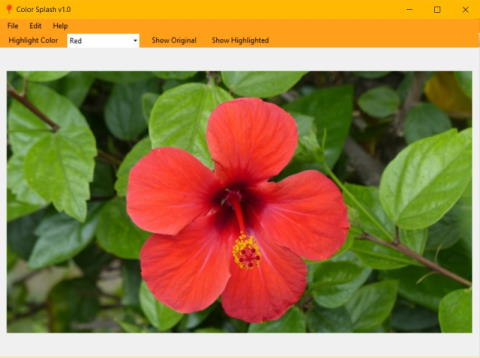
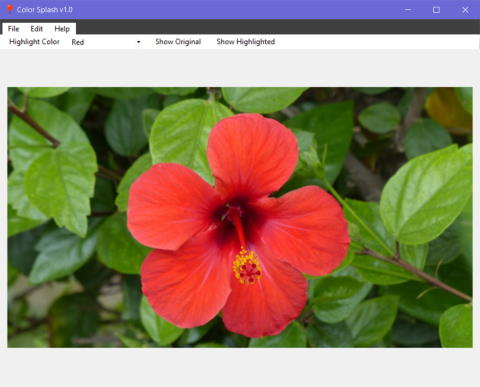
Design changes

diff --git a/color_splash/src/Forms/MainForm.Designer.cs b/color_splash/src/Forms/MainForm.Designer.cs
@@ -61,25 +61,30 @@ namespace ColorSplash.Forms {
             // 
             // menuStrip1
             // 
-            this.menuStrip1.BackColor = System.Drawing.Color.FromArgb(((int)(((byte)(255)))), ((int)(((byte)(159)))), ((int)(((byte)(26)))));
+            this.menuStrip1.BackColor = System.Drawing.Color.FromArgb(((int)(((byte)(64)))), ((int)(((byte)(64)))), ((int)(((byte)(64)))));
             this.menuStrip1.Font = new System.Drawing.Font("Segoe UI", 9F, System.Drawing.FontStyle.Regular, System.Drawing.GraphicsUnit.Point, ((byte)(162)));
+            this.menuStrip1.GripMargin = new System.Windows.Forms.Padding(2);
             this.menuStrip1.ImageScalingSize = new System.Drawing.Size(20, 20);
             this.menuStrip1.Items.AddRange(new System.Windows.Forms.ToolStripItem[] {
             this.fileToolStripMenuItem,
             this.editToolStripMenuItem,
             this.helpToolStripMenuItem});
             this.menuStrip1.Location = new System.Drawing.Point(0, 0);
+            this.menuStrip1.Margin = new System.Windows.Forms.Padding(0, 5, 0, 5);
             this.menuStrip1.Name = "menuStrip1";
-            this.menuStrip1.Padding = new System.Windows.Forms.Padding(5, 2, 0, 2);
-            this.menuStrip1.Size = new System.Drawing.Size(1045, 28);
+            this.menuStrip1.Padding = new System.Windows.Forms.Padding(5, 3, 0, 0);
+            this.menuStrip1.Size = new System.Drawing.Size(1045, 29);
             this.menuStrip1.TabIndex = 0;
             this.menuStrip1.Text = "menuStrip1";
             // 
             // fileToolStripMenuItem
             // 
+            this.fileToolStripMenuItem.BackColor = System.Drawing.Color.White;
             this.fileToolStripMenuItem.DropDownItems.AddRange(new System.Windows.Forms.ToolStripItem[] {
             this.openToolStripMenuItem,
             this.saveToolStripMenuItem});
+            this.fileToolStripMenuItem.Font = new System.Drawing.Font("Segoe UI", 9F, System.Drawing.FontStyle.Regular, System.Drawing.GraphicsUnit.Point, ((byte)(162)));
+            this.fileToolStripMenuItem.Margin = new System.Windows.Forms.Padding(0, 2, 0, 0);
             this.fileToolStripMenuItem.Name = "fileToolStripMenuItem";
             this.fileToolStripMenuItem.Size = new System.Drawing.Size(46, 24);
             this.fileToolStripMenuItem.Text = "File";
@@ -87,23 +92,25 @@ namespace ColorSplash.Forms {
             // openToolStripMenuItem
             // 
             this.openToolStripMenuItem.Name = "openToolStripMenuItem";
-            this.openToolStripMenuItem.Size = new System.Drawing.Size(128, 26);
+            this.openToolStripMenuItem.Size = new System.Drawing.Size(224, 26);
             this.openToolStripMenuItem.Text = "Open";
             this.openToolStripMenuItem.Click += new System.EventHandler(this.OpenToolStripMenuItem_Click);
             // 
             // saveToolStripMenuItem
             // 
             this.saveToolStripMenuItem.Name = "saveToolStripMenuItem";
-            this.saveToolStripMenuItem.Size = new System.Drawing.Size(128, 26);
+            this.saveToolStripMenuItem.Size = new System.Drawing.Size(224, 26);
             this.saveToolStripMenuItem.Text = "Save";
             this.saveToolStripMenuItem.Click += new System.EventHandler(this.SaveToolStripMenuItem_Click);
             // 
             // editToolStripMenuItem
             // 
+            this.editToolStripMenuItem.BackColor = System.Drawing.Color.White;
             this.editToolStripMenuItem.DropDownItems.AddRange(new System.Windows.Forms.ToolStripItem[] {
             this.highSensitivityToolStripMenuItem,
             this.normalSensitivityToolStripMenuItem,
             this.lowSensitivityToolStripMenuItem});
+            this.editToolStripMenuItem.Margin = new System.Windows.Forms.Padding(0, 2, 0, 0);
             this.editToolStripMenuItem.Name = "editToolStripMenuItem";
             this.editToolStripMenuItem.Size = new System.Drawing.Size(49, 24);
             this.editToolStripMenuItem.Text = "Edit";
@@ -111,7 +118,7 @@ namespace ColorSplash.Forms {
             // highSensitivityToolStripMenuItem
             // 
             this.highSensitivityToolStripMenuItem.Name = "highSensitivityToolStripMenuItem";
-            this.highSensitivityToolStripMenuItem.Size = new System.Drawing.Size(212, 26);
+            this.highSensitivityToolStripMenuItem.Size = new System.Drawing.Size(224, 26);
             this.highSensitivityToolStripMenuItem.Text = "High Sensitivity";
             this.highSensitivityToolStripMenuItem.Click += new System.EventHandler(this.HighSensitivityToolStripMenuItem_Click);
             // 
@@ -121,22 +128,24 @@ namespace ColorSplash.Forms {
             this.normalSensitivityToolStripMenuItem.CheckOnClick = true;
             this.normalSensitivityToolStripMenuItem.CheckState = System.Windows.Forms.CheckState.Checked;
             this.normalSensitivityToolStripMenuItem.Name = "normalSensitivityToolStripMenuItem";
-            this.normalSensitivityToolStripMenuItem.Size = new System.Drawing.Size(212, 26);
+            this.normalSensitivityToolStripMenuItem.Size = new System.Drawing.Size(224, 26);
             this.normalSensitivityToolStripMenuItem.Text = "Normal Sensitivity";
             this.normalSensitivityToolStripMenuItem.Click += new System.EventHandler(this.NormalSensitivityToolStripMenuItem_Click);
             // 
             // lowSensitivityToolStripMenuItem
             // 
             this.lowSensitivityToolStripMenuItem.Name = "lowSensitivityToolStripMenuItem";
-            this.lowSensitivityToolStripMenuItem.Size = new System.Drawing.Size(212, 26);
+            this.lowSensitivityToolStripMenuItem.Size = new System.Drawing.Size(224, 26);
             this.lowSensitivityToolStripMenuItem.Text = "Low Sensitivity";
             this.lowSensitivityToolStripMenuItem.Click += new System.EventHandler(this.LowSensitivityToolStripMenuItem_Click);
             // 
             // helpToolStripMenuItem
             // 
+            this.helpToolStripMenuItem.BackColor = System.Drawing.Color.White;
             this.helpToolStripMenuItem.DropDownItems.AddRange(new System.Windows.Forms.ToolStripItem[] {
             this.showHelpToolStripMenuItem,
             this.aboutToolStripMenuItem});
+            this.helpToolStripMenuItem.Margin = new System.Windows.Forms.Padding(0, 2, 0, 0);
             this.helpToolStripMenuItem.Name = "helpToolStripMenuItem";
             this.helpToolStripMenuItem.Size = new System.Drawing.Size(55, 24);
             this.helpToolStripMenuItem.Text = "Help";
@@ -144,18 +153,18 @@ namespace ColorSplash.Forms {
             // showHelpToolStripMenuItem
             // 
             this.showHelpToolStripMenuItem.Name = "showHelpToolStripMenuItem";
-            this.showHelpToolStripMenuItem.Size = new System.Drawing.Size(164, 26);
+            this.showHelpToolStripMenuItem.Size = new System.Drawing.Size(224, 26);
             this.showHelpToolStripMenuItem.Text = "Show Help";
             // 
             // aboutToolStripMenuItem
             // 
             this.aboutToolStripMenuItem.Name = "aboutToolStripMenuItem";
-            this.aboutToolStripMenuItem.Size = new System.Drawing.Size(164, 26);
+            this.aboutToolStripMenuItem.Size = new System.Drawing.Size(224, 26);
             this.aboutToolStripMenuItem.Text = "About";
             // 
             // toolStrip1
             // 
-            this.toolStrip1.BackColor = System.Drawing.Color.FromArgb(((int)(((byte)(255)))), ((int)(((byte)(159)))), ((int)(((byte)(26)))));
+            this.toolStrip1.BackColor = System.Drawing.Color.White;
             this.toolStrip1.GripStyle = System.Windows.Forms.ToolStripGripStyle.Hidden;
             this.toolStrip1.ImageScalingSize = new System.Drawing.Size(20, 20);
             this.toolStrip1.Items.AddRange(new System.Windows.Forms.ToolStripItem[] {
@@ -163,7 +172,7 @@ namespace ColorSplash.Forms {
             this.colorChooser,
             this.showOriginal,
             this.toolStripButton3});
-            this.toolStrip1.Location = new System.Drawing.Point(0, 28);
+            this.toolStrip1.Location = new System.Drawing.Point(0, 29);
             this.toolStrip1.Name = "toolStrip1";
             this.toolStrip1.Padding = new System.Windows.Forms.Padding(0);
             this.toolStrip1.RenderMode = System.Windows.Forms.ToolStripRenderMode.Professional;
@@ -173,7 +182,7 @@ namespace ColorSplash.Forms {
             // 
             // toolStripButton1
             // 
-            this.toolStripButton1.BackColor = System.Drawing.Color.FromArgb(((int)(((byte)(255)))), ((int)(((byte)(159)))), ((int)(((byte)(26)))));
+            this.toolStripButton1.BackColor = System.Drawing.Color.White;
             this.toolStripButton1.CheckOnClick = true;
             this.toolStripButton1.DisplayStyle = System.Windows.Forms.ToolStripItemDisplayStyle.Text;
             this.toolStripButton1.ImageTransparentColor = System.Drawing.Color.Magenta;
@@ -208,7 +217,7 @@ namespace ColorSplash.Forms {
             // 
             // showOriginal
             // 
-            this.showOriginal.BackColor = System.Drawing.Color.FromArgb(((int)(((byte)(255)))), ((int)(((byte)(159)))), ((int)(((byte)(26)))));
+            this.showOriginal.BackColor = System.Drawing.Color.White;
             this.showOriginal.DisplayStyle = System.Windows.Forms.ToolStripItemDisplayStyle.Text;
             this.showOriginal.ImageTransparentColor = System.Drawing.Color.Magenta;
             this.showOriginal.Margin = new System.Windows.Forms.Padding(10, 1, 0, 2);
@@ -220,7 +229,7 @@ namespace ColorSplash.Forms {
             // 
             // toolStripButton3
             // 
-            this.toolStripButton3.BackColor = System.Drawing.Color.FromArgb(((int)(((byte)(255)))), ((int)(((byte)(159)))), ((int)(((byte)(26)))));
+            this.toolStripButton3.BackColor = System.Drawing.Color.White;
             this.toolStripButton3.DisplayStyle = System.Windows.Forms.ToolStripItemDisplayStyle.Text;
             this.toolStripButton3.ImageTransparentColor = System.Drawing.Color.Magenta;
             this.toolStripButton3.Margin = new System.Windows.Forms.Padding(10, 1, 0, 2);
@@ -236,7 +245,7 @@ namespace ColorSplash.Forms {
             | System.Windows.Forms.AnchorStyles.Right)));
             this.pictureBox1.Image = global::color_splash.Properties.Resources.instructions;
             this.pictureBox1.Location = new System.Drawing.Point(16, 73);
-            this.pictureBox1.Margin = new System.Windows.Forms.Padding(4);
+            this.pictureBox1.Margin = new System.Windows.Forms.Padding(4, 0, 4, 4);
             this.pictureBox1.Name = "pictureBox1";
             this.pictureBox1.Size = new System.Drawing.Size(1013, 652);
             this.pictureBox1.SizeMode = System.Windows.Forms.PictureBoxSizeMode.Zoom;
@@ -247,9 +256,9 @@ namespace ColorSplash.Forms {
             // 
             this.snackbar.Anchor = ((System.Windows.Forms.AnchorStyles)(((System.Windows.Forms.AnchorStyles.Bottom | System.Windows.Forms.AnchorStyles.Left) 
             | System.Windows.Forms.AnchorStyles.Right)));
-            this.snackbar.Location = new System.Drawing.Point(0, 683);
+            this.snackbar.Location = new System.Drawing.Point(0, 679);
             this.snackbar.Name = "snackbar";
-            this.snackbar.Size = new System.Drawing.Size(1045, 57);
+            this.snackbar.Size = new System.Drawing.Size(1045, 59);
             this.snackbar.TabIndex = 4;
             this.snackbar.Visible = false;
             // 

diff --git a/color_splash/src/Forms/MainForm.cs b/color_splash/src/Forms/MainForm.cs
@@ -3,7 +3,9 @@ using System;
 using System.Collections.Generic;
 using System.Drawing;
 using System.Runtime.InteropServices;
+using System.Windows;
 using System.Windows.Forms;
+using System.Windows.Media;
 
 namespace ColorSplash.Forms {
     public partial class MainForm : Form {
@@ -30,6 +32,7 @@ namespace ColorSplash.Forms {
             fileChooser = new OpenFileDialog();
             //openFileDialog.Filter = "txt files (*.txt)|*.txt|All files (*.*)|*.*";
             fileChooser.Filter = "JPG Files (*.jpg)|*.jpg|JPEG Files (*.jpeg)|*.jpeg|PNG Files (*.png)|*.png";
+
         }
 
         private void OpenToolStripMenuItem_Click(object sender, EventArgs e) {
@@ -113,7 +116,7 @@ namespace ColorSplash.Forms {
             normalSensitivityToolStripMenuItem.Checked = false;
 
             processor.sensivity = ImageProcessor.HIGH;
-            snackbar.show("Sensıvıty level set to hıgh", 1.3f);
+            snackbar.show("Sensıvıty level set to hıgh", 1.5f);
 
             if (processor.Image != null)
                 pictureBox1.Image = processor.Image; //For higlighting with another sensivity
@@ -127,7 +130,7 @@ namespace ColorSplash.Forms {
             lowSensitivityToolStripMenuItem.Checked = false;
 
             processor.sensivity = ImageProcessor.NORMAL;
-            snackbar.show("Sensıvıty level set to normal", 1.3f);
+            snackbar.show("Sensıvıty level set to normal", 1.5f);
 
             if (processor.Image != null)
                 pictureBox1.Image = processor.Image; //For higlighting with another sensivity
@@ -141,7 +144,7 @@ namespace ColorSplash.Forms {
             normalSensitivityToolStripMenuItem.Checked = false;
 
             processor.sensivity = ImageProcessor.LOW;
-            snackbar.show("Sensıvıty level set to low", 1.3f);
+            snackbar.show("Sensıvıty level set to low", 1.5f);
 
             if (processor.Image != null)
                 pictureBox1.Image = processor.Image; //For higlighting with another sensivity

diff --git a/color_splash/src/UI/Snackbar.Designer.cs b/color_splash/src/UI/Snackbar.Designer.cs
@@ -44,7 +44,7 @@ namespace ColorSplash.UI {
             // 
             // text
             // 
-            this.text.BackColor = System.Drawing.Color.FromArgb(((int)(((byte)(255)))), ((int)(((byte)(175)))), ((int)(((byte)(64)))));
+            this.text.BackColor = System.Drawing.Color.FromArgb(((int)(((byte)(64)))), ((int)(((byte)(64)))), ((int)(((byte)(64)))));
             this.text.Dock = System.Windows.Forms.DockStyle.Fill;
             this.text.Font = new System.Drawing.Font("Oswald", 12F, System.Drawing.FontStyle.Bold, System.Drawing.GraphicsUnit.Point, ((byte)(162)));
             this.text.ForeColor = System.Drawing.Color.White;
@@ -52,7 +52,6 @@ namespace ColorSplash.UI {
             this.text.Name = "text";
             this.text.Size = new System.Drawing.Size(706, 69);
             this.text.TabIndex = 0;
-            this.text.Text = "";
             this.text.TextAlign = System.Drawing.ContentAlignment.MiddleCenter;
             // 
             // timer

diff --git a/color_splash/src/UI/Snackbar.cs b/color_splash/src/UI/Snackbar.cs
@@ -1,5 +1,6 @@
 using System;
 using System.Windows.Forms;
+using Transitions;
 
 namespace ColorSplash.UI {
     public partial class Snackbar : UserControl {
@@ -42,9 +43,8 @@ namespace ColorSplash.UI {
             //Timer's interval is 100 milisecons (100 miliseconds = 0.1 second)
             counter += 0.1f;
 
-            if (counter >= duration) {
+            if (counter >= duration)
                 end();
-            }
         }
     }
 }
